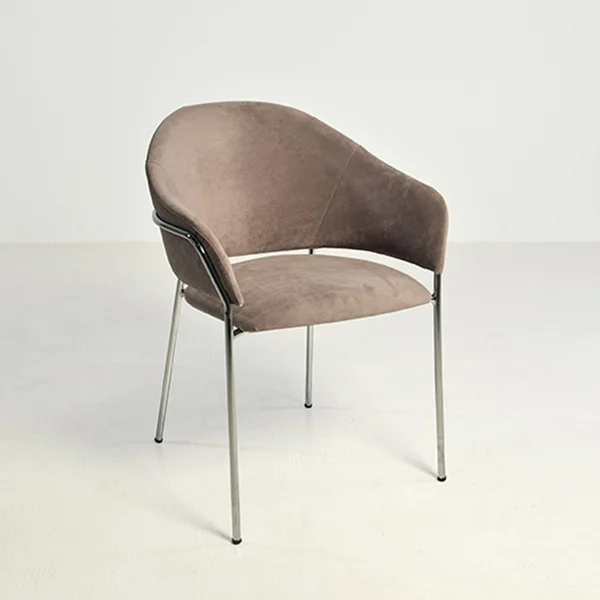
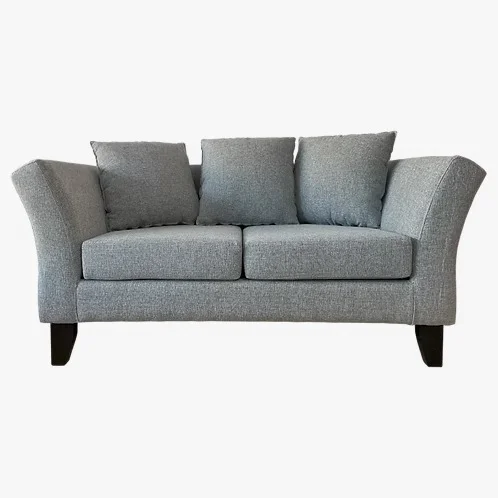
+ Cambios basicos

diff --git a/index.html b/index.html
@@ -3,27 +3,28 @@
 <head>
     <meta charset="UTF-8">
     <meta name="viewport" content="width=device-width, initial-scale=1.0">
-    <title>LD DECORACIONES | Arquitectura y Diseño</title>
+    <title>LD DECORACIONES | Arquitectura y Decoraciones    </title>
     <link rel="stylesheet" href="styles.css">
 </head>
 <body>
 
     <!-- Navegación -->
-    <header>
-        <div class="logo">LD DECORACIONES</div>
-        <nav>
-            <ul>
-                <li><a href="#proyectos">Proyectos</a></li>
-                <li><a href="#nosotros">Estudio</a></li>
-                <li><a href="#simet">Simet</a></li>
-                <li><a href="#contacto">Contacto</a></li>
-            </ul>
-        </nav>
-    </header>
+<header>
+  <div class="logo">
+    <img src="Images/LD.webp" alt="LD Decoraciones" />
+  </div>
+  <nav>
+    <ul>
+      <li><a href="#proyectos">Proyectos</a></li>
+      <li><a href="#nosotros">Estudio</a></li>
+      <li><a href="#contacto">Contacto</a></li>
+    </ul>
+  </nav>
+</header>
 
     <!-- Portada -->
     <section class="hero">
-        <h1>LD DECORACIONES</h1>
+        <h1>Arquitectura & Decoraciones</h1>
         <p>Diseño arquitectónico que transforma espacios y estilos de vida. <br>Consultas personalizadas y proyectos llave en mano.</p>
         <div class="cta-buttons">
             <!-- REEMPLAZA EL NÚMERO ABAJO CON EL TUYO -->
@@ -34,7 +35,7 @@
 
     <!-- Galería de Proyectos -->
     <section id="proyectos" class="section">
-        <h2 class="section-title">Proyectos Recientes</h2>
+        <h2 class="section-title">Diseños de cocinas</h2>
         <div class="gallery">
             <!-- Proyecto 1 -->
             <div class="project-card">
@@ -70,7 +71,7 @@
                 <h2 class="section-title" style="text-align: left;">Nuestra Filosofía</h2>
                 <p>En <strong>LD DECORACIONES</strong>, creemos que la arquitectura no es solo construir, sino crear experiencias. Nos especializamos en espacios residenciales y comerciales que combinan funcionalidad, estética y confort.</p>
                 <br>
-                <p>Cada proyecto es una colaboración única. No vendemos planos, creamos soluciones a medida para que nuestros clientes disfruten de su entorno diario.</p>
+                <p>Cada proyecto es una colaboración única. Creamos soluciones a medida para que nuestros clientes disfruten de su entorno diario.</p>
             </div>
             <div style="flex: 1; min-width: 300px;">
                 <img src="Images/4.webp" alt="Estudio de Arquitectura" style="width: 100%; border-radius: 4px;">
@@ -78,26 +79,15 @@
         </div>
     </section>
 
-    <!-- Simet Diseño y Fabrica -->
-    <section id="simet" class="section">
-        <h2 class="section-title">Simet Diseño y Fabrica</h2>
-        <div class="simet-gallery">
-            <a href="https://simet.com.ar/sillas/" target="_blank" class="simet-link">
-                <img src="Images/5.webp" alt="Simet Diseño">
-            </a>
-            <a href="https://simet.com.ar/mesas/" target="_blank" class="simet-link">
-                <img src="Images/6.webp" alt="Simet Diseño">
-            </a>
-            <a href="https://simet.com.ar/banquetas/" target="_blank" class="simet-link">
-                <img src="Images/7.webp" alt="Simet Diseño">
-            </a>
-        </div>
-    </section>
+    
 
     <!-- Contacto -->
     <section id="contacto" class="section contact">
         <h2 class="section-title">Hablemos de tu Proyecto</h2>
-        <a href="https://wa.me/1234567890" class="btn btn-contact">Agendar Cita por WhatsApp</a>
+        <a href="https://wa.me/1234567890" class="btn btn-contact">
+            <span class="btn-icon">💬</span>
+            <span>Agendar cita por WhatsApp</span>
+        </a>
     </section>
 
     <footer>

diff --git a/styles.css b/styles.css
@@ -50,6 +50,11 @@ header {
     color: var(--text-color);
     font-family: var(--font-display);
 }
+.logo img {
+  height: 50px; /* ajustá según el tamaño que quieras */
+  width: auto;
+  display: block;
+}
 
 nav ul { 
     display: flex; 
@@ -118,7 +123,7 @@ nav a:hover::after {
 
 .hero h1 {
     font-size: 5rem;
-    font-weight: 700;
+    font-weight: 200;
     margin-bottom: 1rem;
     letter-spacing: 2px;
     text-shadow: 0 4px 20px rgba(0,0,0,0.4);
@@ -175,11 +180,15 @@ nav a:hover::after {
 
 /* --- ESTILO UNIFICADO DE BOTONES --- */
 .btn {
-    padding: 1.1rem 3rem;
+    display: inline-flex;
+    align-items: center;
+    justify-content: center;
+    gap: 0.75rem;
+    padding: 1rem 2.2rem;
     border: 2px solid white;
     color: white;
     text-transform: uppercase;
-    letter-spacing: 2px;
+    letter-spacing: 1.8px;
     font-size: 0.85rem;
     background: rgba(255, 255, 255, 0.08);
     backdrop-filter: blur(10px);
@@ -188,6 +197,13 @@ nav a:hover::after {
     font-weight: 600;
     position: relative;
     overflow: hidden;
+    border-radius: 999px;
+    min-width: 280px;
+}
+
+.btn-icon {
+    font-size: 1.15rem;
+    line-height: 1;
 }
 
 .btn::before {
@@ -215,19 +231,37 @@ nav a:hover::after {
 
 /* Botón Específico de WhatsApp */
 .btn-whatsapp {
-    background: rgba(37, 211, 102, 0.15);
-    border: 2px solid rgba(37, 211, 102, 0.5);
+    background: rgba(37, 211, 102, 0.16);
+    border: 2px solid rgba(37, 211, 102, 0.55);
     color: white;
+    box-shadow: 0 8px 24px rgba(37, 211, 102, 0.18);
 }
 
 .btn-whatsapp::before {
-    background: #25D366;
+    background: linear-gradient(135deg, #25D366 0%, #20b95b 100%);
 }
 
 .btn-whatsapp:hover {
     color: white;
     border-color: #25D366;
-    box-shadow: 0 10px 30px rgba(37, 211, 102, 0.3);
+    box-shadow: 0 14px 34px rgba(37, 211, 102, 0.3);
+}
+
+.btn-contact {
+    background: linear-gradient(135deg, #25D366 0%, #20b95b 100%);
+    border-color: transparent;
+    box-shadow: 0 14px 36px rgba(37, 211, 102, 0.26);
+    padding: 1.15rem 2.6rem;
+}
+
+.btn-contact::before {
+    background: linear-gradient(135deg, #1fa852 0%, #168a42 100%);
+}
+
+.btn-contact:hover {
+    color: white;
+    transform: translateY(-4px);
+    box-shadow: 0 18px 42px rgba(37, 211, 102, 0.34);
 }
 
 /* --- SECCIONES GENERALES --- */
@@ -242,7 +276,7 @@ nav a:hover::after {
 .section-title {
     text-align: center;
     font-size: 2.5rem;
-    font-weight: 600;
+    font-weight: 200;
     margin-bottom: 4rem;
     text-transform: uppercase;
     letter-spacing: 3px;
